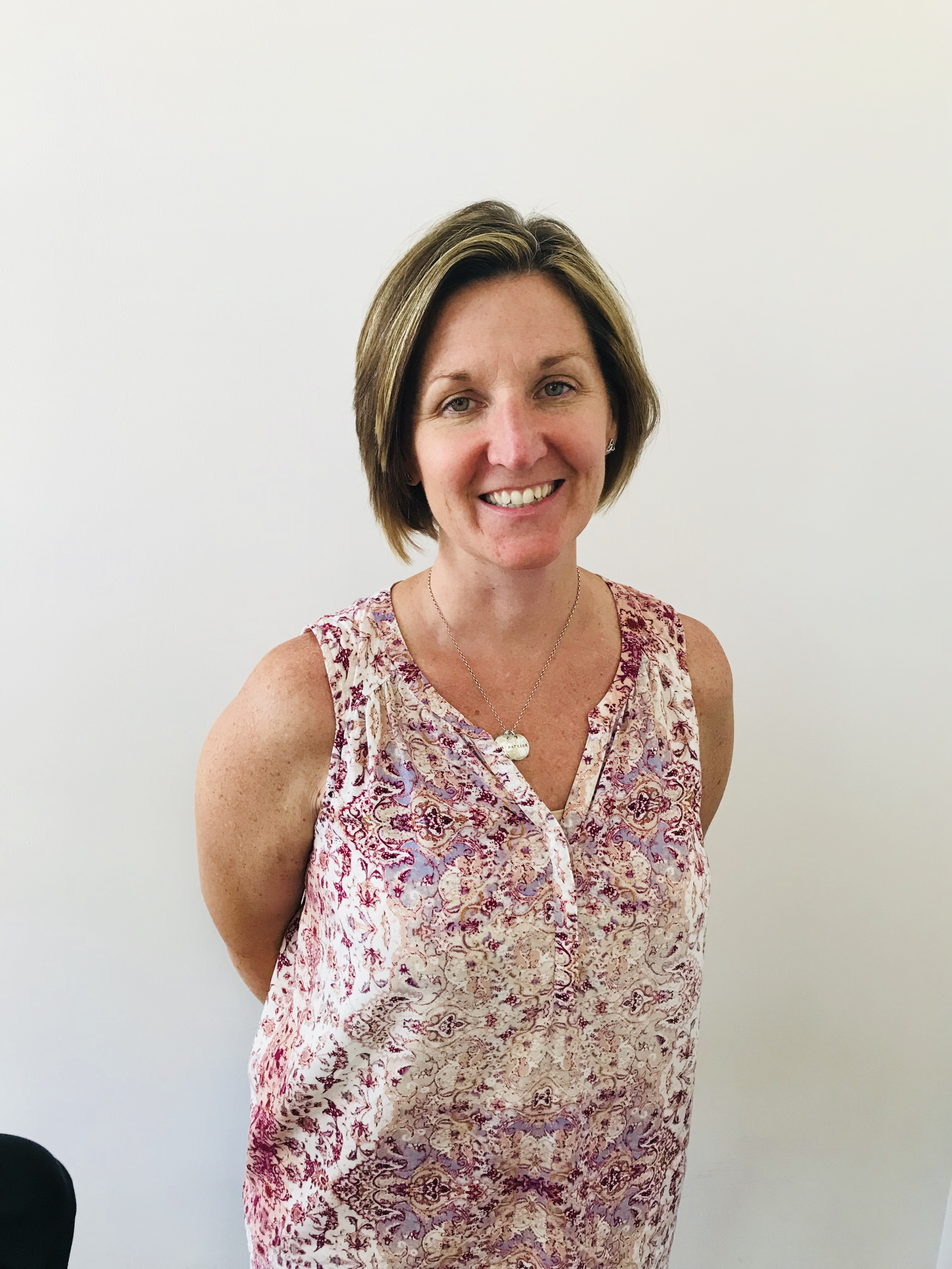
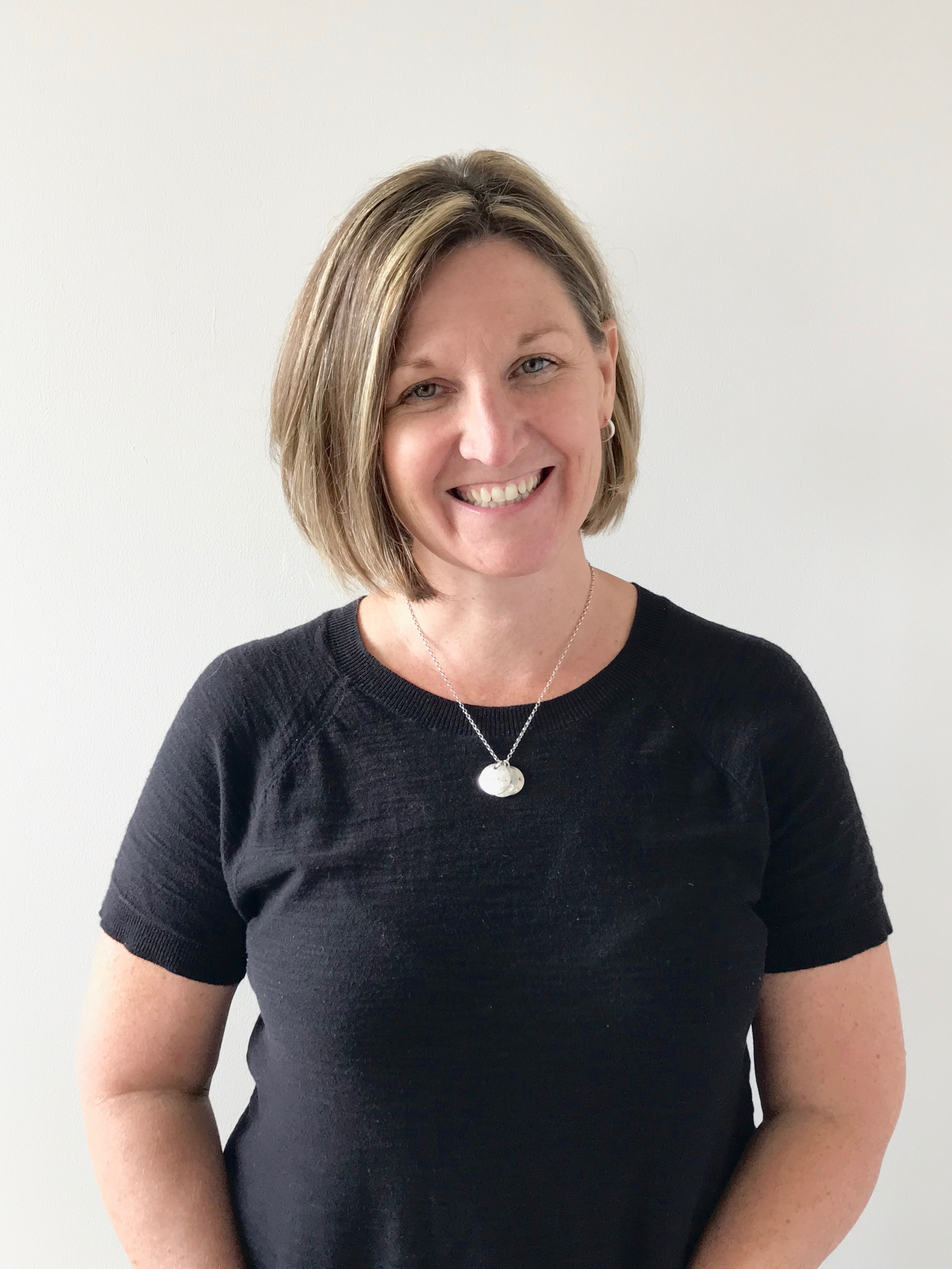
change team, update pictures

diff --git a/src/copy/team.js b/src/copy/team.js
@@ -1,7 +1,7 @@
 import {
   henryChen,
   karenMorissey,
-  libbyFiliberto,
+  // libbyFiliberto,
   stephaniePackard,
   oliviaChun,
 } from '../assets/images/staff';
@@ -22,13 +22,13 @@ const bioContent = [
     description: ' Karen graduated from St. Thomas Aquinas College, Magna Cum Laude with a Bachelor of Science degree in Marketing in 1995. After a brief career in Advertising, she realized that she wanted a career that would allow her to focus on helping others. In the year 2000, she reached her goal and graduated with her Masters degree in Physical Therapy from New York Medical College in Valhalla. The first 13 years of her career were spent working in outpatient orthopedics here in Westchester county, where she gained vast experience treating a variety of post surgical and sports-related injuries. In 2013, a strong interest in the aging population led her to spend time working in Assisted Living Facilities in both New York and New Jersey. During this time, Karen enjoyed providing individualized, function based rehabilitation for a variety of gait, balance, orthopedic and neurologic conditions affecting the older population. Karen joined the team at Physical Therapy Group of Westchester in 2015. She has since been busy taking continuing education classes concerning vestibular issues, fall prevention and exercise for the elderly. She is planning to pursue her certification in Vestibular Rehabilitation. She is at home in Rockland County, where she was born and raised. During her free time, Karen enjoys spending time with her husband and her three sons.',
     image: karenMorissey,
   },
-  {
-    name: 'Libby Filiberto',
-    role: 'Medical Receptionist',
-    degrees: '',
-    description: 'Libby has been working as a physical therapy receptionist for ten years.  She enjoys getting to know the patients as they go through their journeys back to wellness.  Last year, she decided to stop working full-time and found her new work family here at Physical Therapy Group of Westchester as a part-time employee. She loves her job here and has the best of both worlds. She gets to spend more time with her husband, kids and last but certainly not least, their two kittens, Frankie and Pablo and don’t tell the cats, but her favorite, their dog Louise.',
-    image: libbyFiliberto,
-  },
+  // {
+  //   name: 'Libby Filiberto',
+  //   role: 'Medical Receptionist',
+  //   degrees: '',
+  //   description: 'Libby has been working as a physical therapy receptionist for ten years.  She enjoys getting to know the patients as they go through their journeys back to wellness.  Last year, she decided to stop working full-time and found her new work family here at Physical Therapy Group of Westchester as a part-time employee. She loves her job here and has the best of both worlds. She gets to spend more time with her husband, kids and last but certainly not least, their two kittens, Frankie and Pablo and don’t tell the cats, but her favorite, their dog Louise.',
+  //   image: libbyFiliberto,
+  // },
   {
     name: 'Stephanie Packard',
     role: 'Medical Receptionist',

diff --git a/src/assets/images/staff/index.js b/src/assets/images/staff/index.js
@@ -1,13 +1,11 @@
 import henryChen from './henry-chen.jpg';
 import karenMorissey from './karen-morissey.jpg';
-import libbyFiliberto from './libby-filiberto.jpg';
 import oliviaChun from './olivia-chun.jpg';
 import stephaniePackard from './stephanie-packard.jpg';
 
 export {
   henryChen,
   karenMorissey,
-  libbyFiliberto,
   oliviaChun,
   stephaniePackard,
 }
